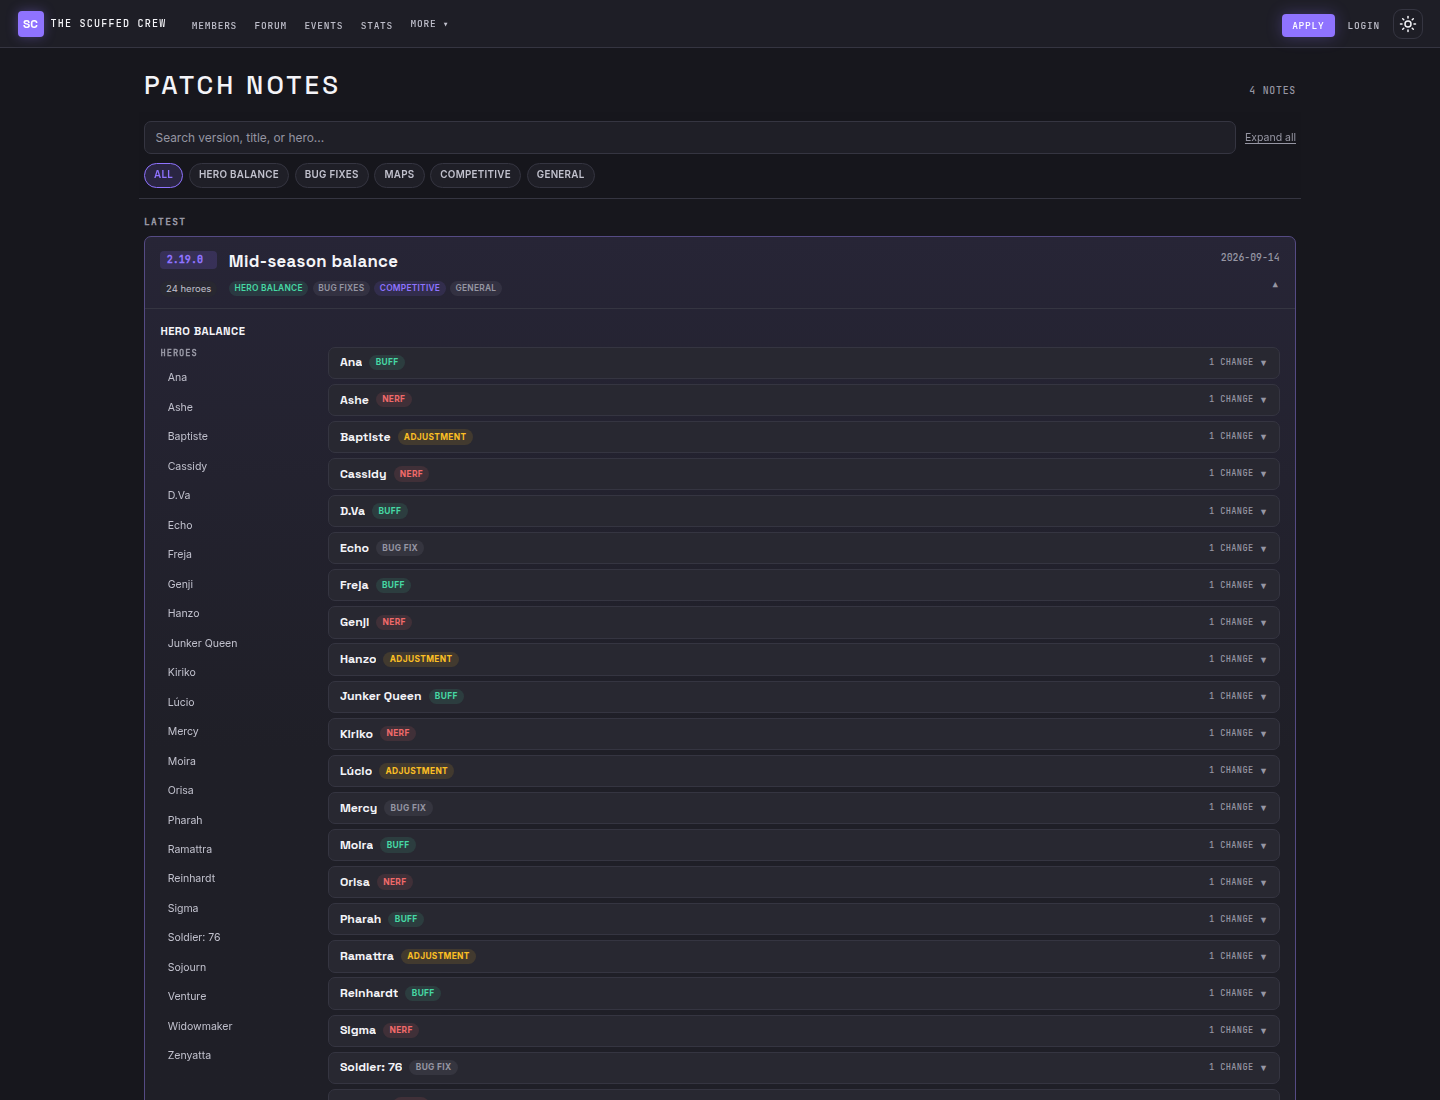
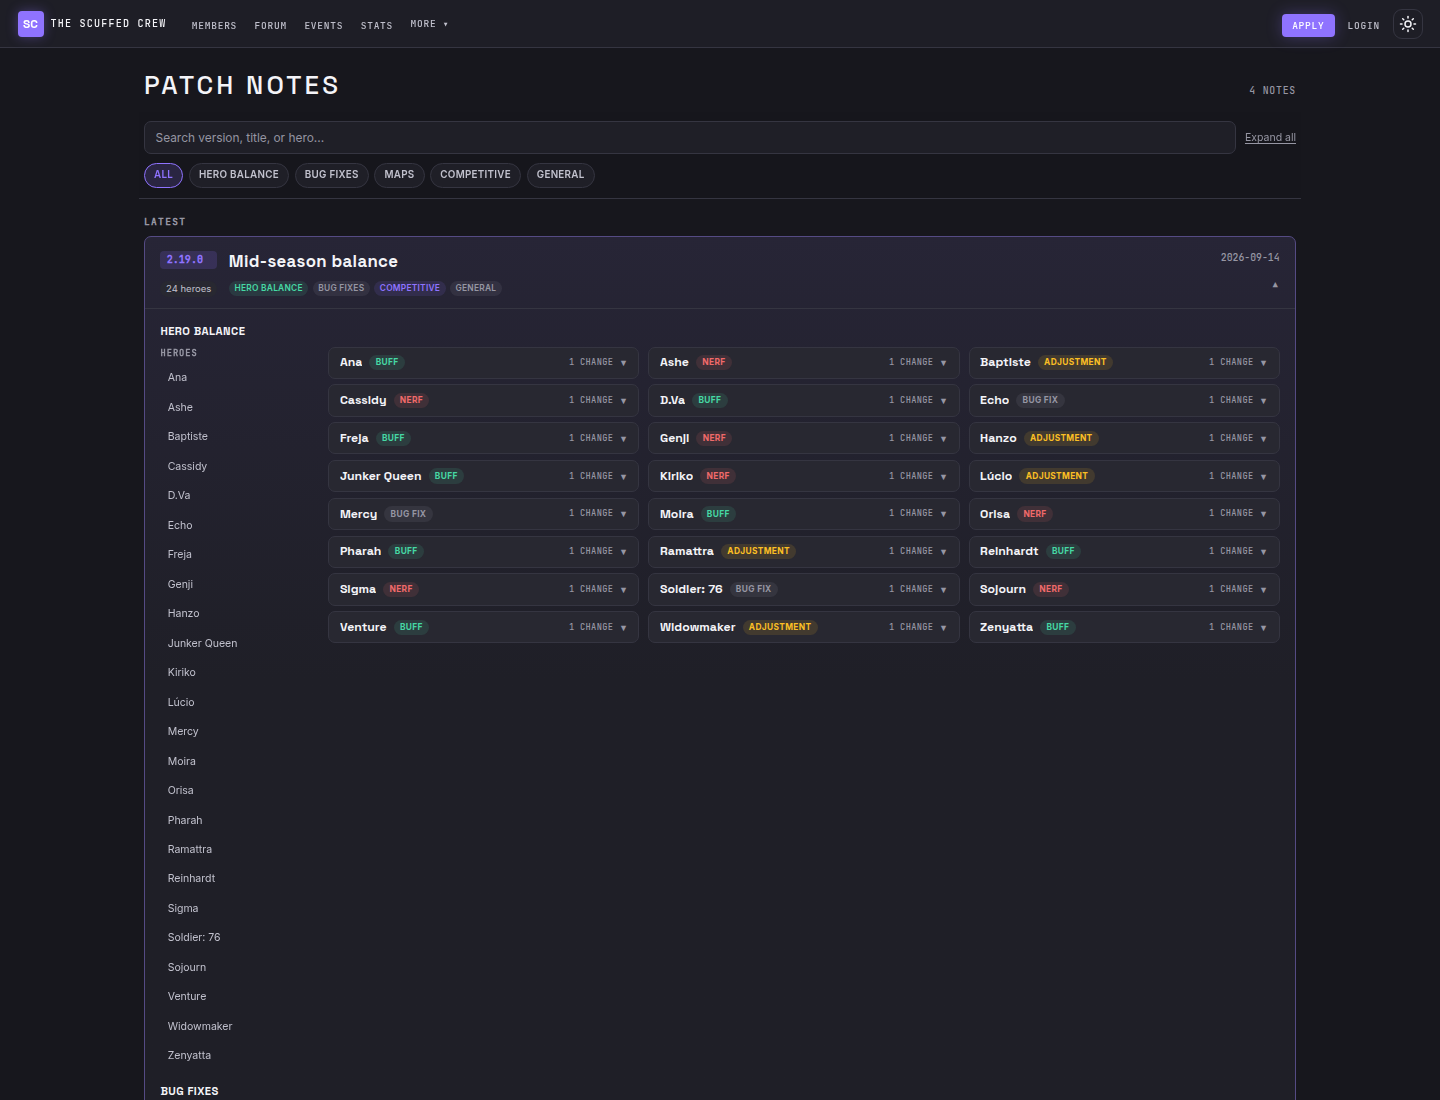
fix(app): multi-col grid for collapsed Patch Notes hero rows
Closed heroes use auto-fill minmax(300px) on desktop so 24 rows are
not a tall wall. Accordion stays one-at-a-time; the open card spans
the full grid track for DEV notes and change lines. TOC@12+ and
1200px max-width unchanged. After screenshots refreshed.

diff --git a/crates/app/src/pages/strategy/patch_notes.rs b/crates/app/src/pages/strategy/patch_notes.rs
@@ -762,12 +762,12 @@ const PAGE_CSS: &str = r#"
         background: var(--accent-soft);
         color: var(--accent);
     }
-    /* Desktop default: single-column accordion. Multi-col grid is only
-       for an *open* hero's change lines and for non-hero sections. */
+    /* Collapsed rows: multi-col on desktop so 24 closed heroes are not a
+       tall wall. Open detail spans the full track (DEV + change grid). */
     .patch-hero-list {
-        display: flex;
-        flex-direction: column;
-        gap: 0.35rem;
+        display: grid;
+        grid-template-columns: repeat(auto-fill, minmax(min(300px, 100%), 1fr));
+        gap: 0.4rem 0.65rem;
     }
     .patch-hero-card {
         background: var(--surface-2);
@@ -777,6 +777,7 @@ const PAGE_CSS: &str = r#"
         scroll-margin-top: calc(48px + 5.75rem);
     }
     .patch-hero-card.open {
+        grid-column: 1 / -1;
         border-color: color-mix(in srgb, var(--accent) 28%, var(--border));
     }
     .patch-hero-card-header {
